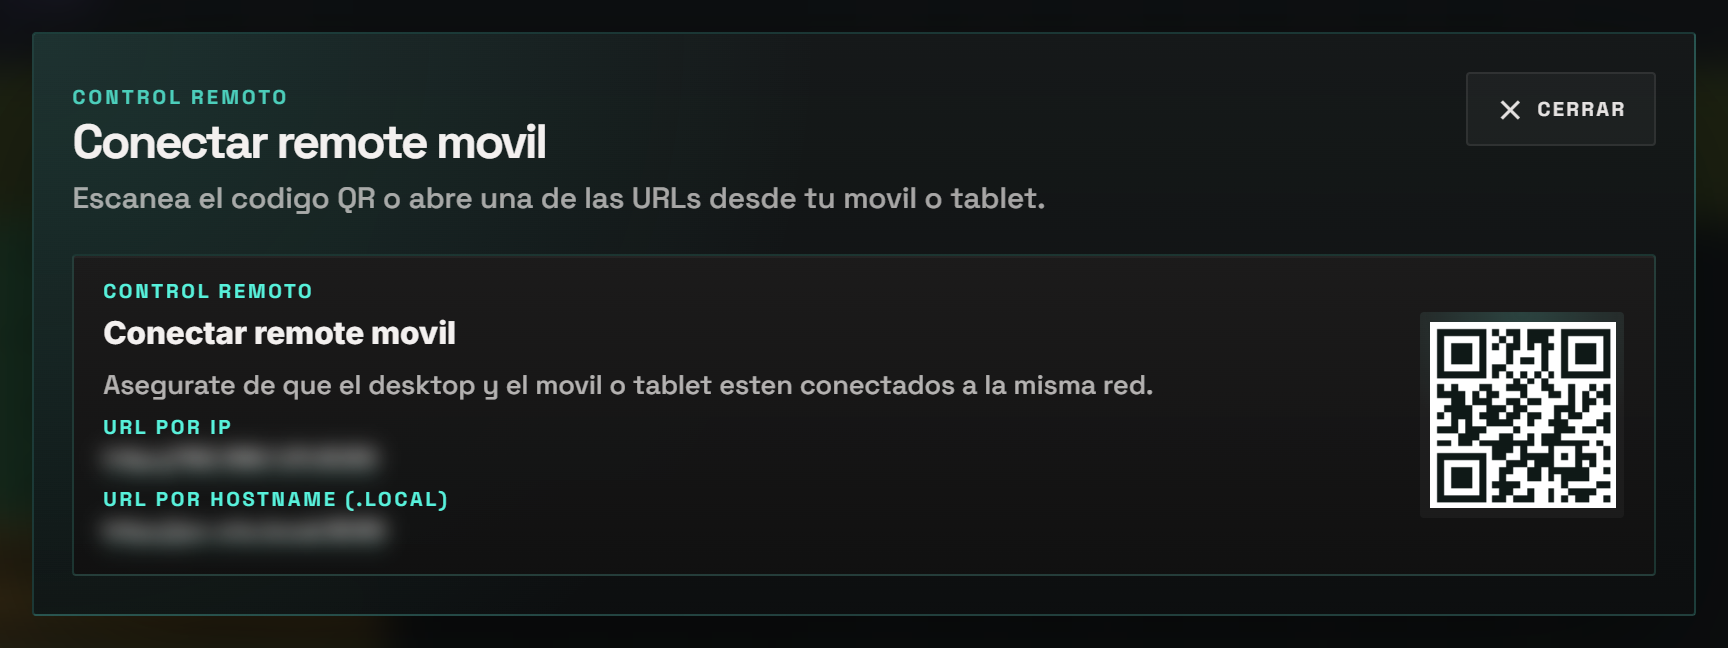
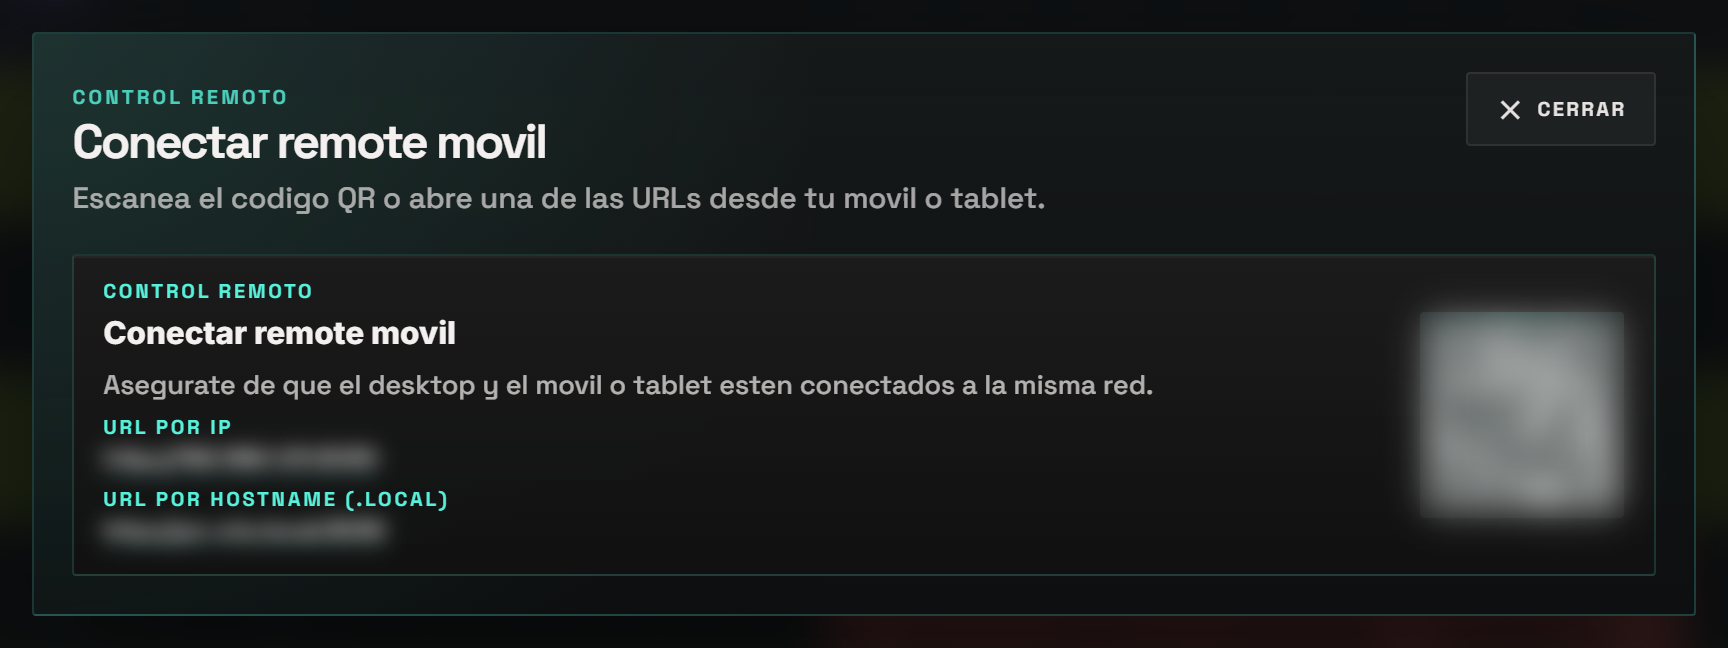
docs(website): difuminar el QR del Remote y "Sistema de audio" traducido
- La captura del Remote ya ocultaba las URLs, pero el código QR codifica
  la misma dirección y el nombre del equipo: también se difumina.
- Configuración: el ajuste ya se llama "Sistema de audio" en la app.
- Arnés: los bloques de barra lateral y Configuración abren la sesión por
  su cuenta, para poder lanzarlos sueltos.

diff --git a/tests/e2e/specs/guide-shots.e2e.ts b/tests/e2e/specs/guide-shots.e2e.ts
@@ -532,6 +532,7 @@ describe("user guide screenshots", function () {
   });
 
   it("side nav, library, remote, tutorial", async () => {
+    await ensureSession();
     await AppPage.resetShell();
     await annotatedShot(
       "side-nav",
@@ -567,9 +568,10 @@ describe("user guide screenshots", function () {
     // The URLs carry this PC's LAN address and host name.
     await runInPage(() => {
       document
-        .querySelectorAll<HTMLElement>('[aria-labelledby="lt-remote-modal-title"] a')
+        // The QR encodes the same address and host name.
+        .querySelectorAll<HTMLElement>('[aria-labelledby="lt-remote-modal-title"] a, [aria-labelledby="lt-remote-modal-title"] svg, [aria-labelledby="lt-remote-modal-title"] canvas, [aria-labelledby="lt-remote-modal-title"] img')
         .forEach((el) => {
-          el.style.filter = "blur(5px)";
+          el.style.filter = el.tagName === "A" ? "blur(5px)" : "blur(9px)";
         });
     });
     await shot("remote-modal", { selector: '[aria-labelledby="lt-remote-modal-title"]', margin: 16 });
@@ -588,6 +590,7 @@ describe("user guide screenshots", function () {
   });
 
   it("settings tabs", async () => {
+    await ensureSession();
     await AppPage.openSettings();
     const tabs = ["audio", "general", "video", "shortcuts", "diagnostics", "midi", "midiLearn"];
     await annotatedShot(
